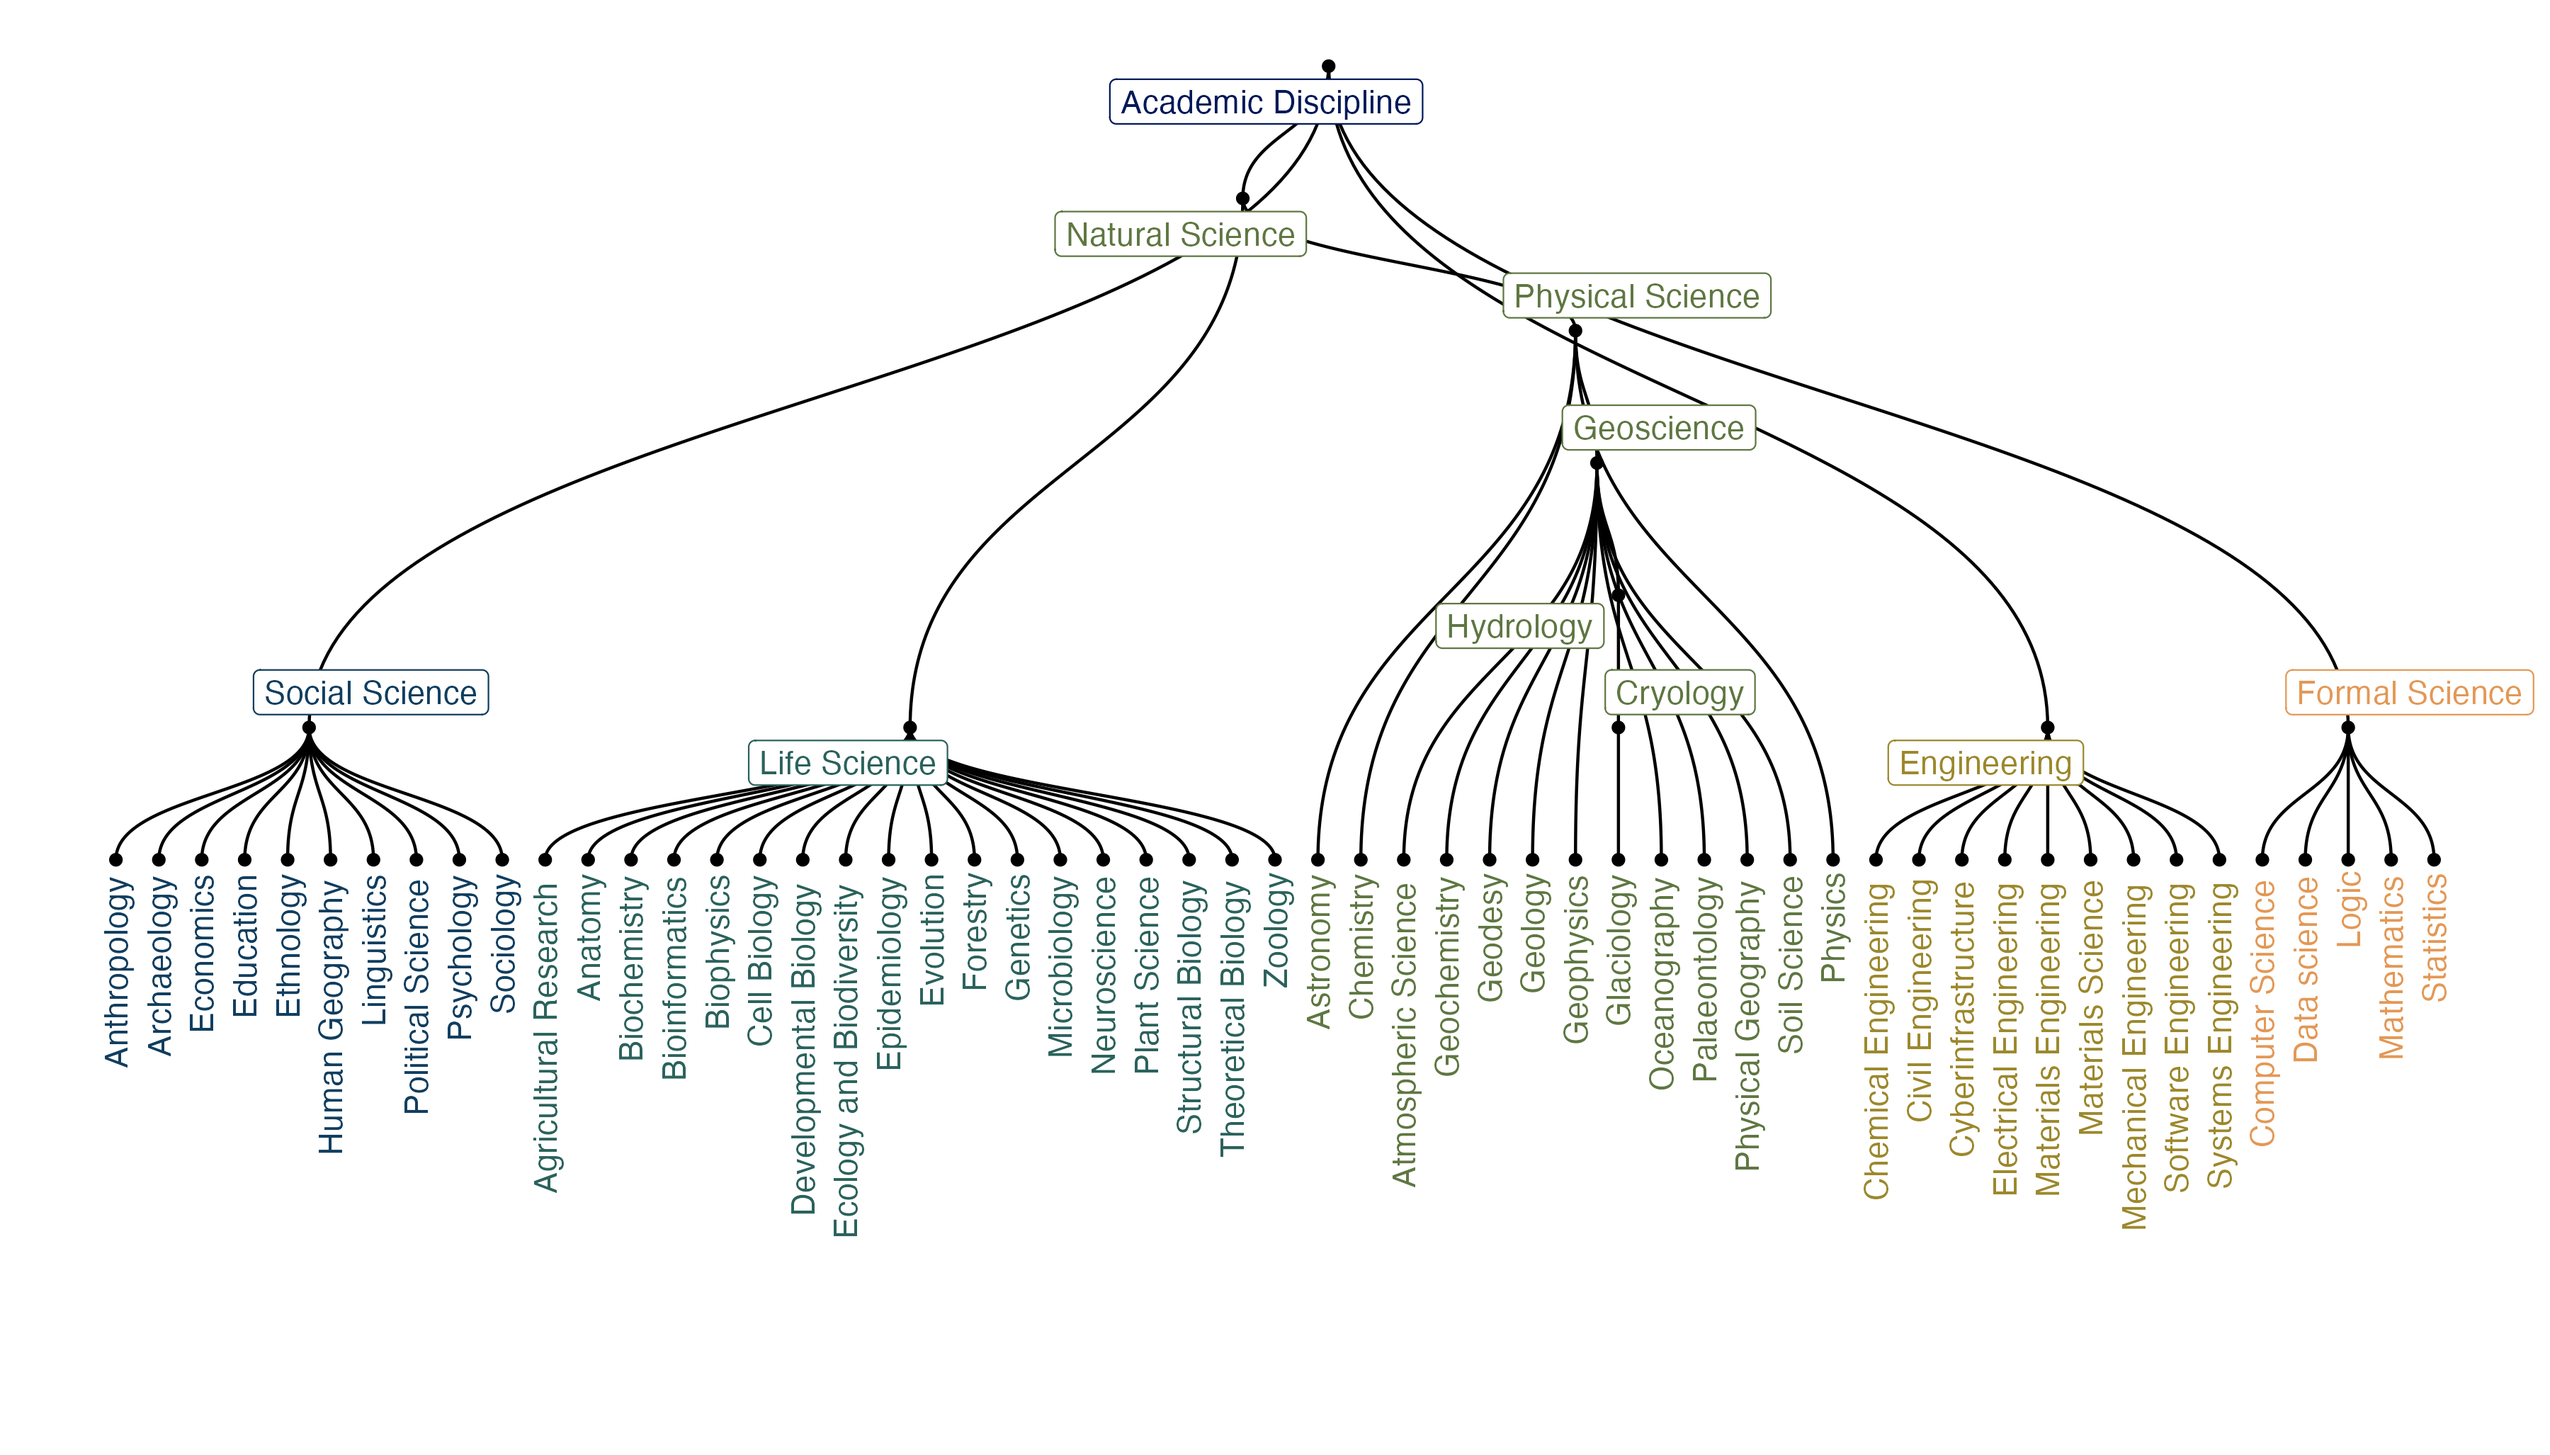
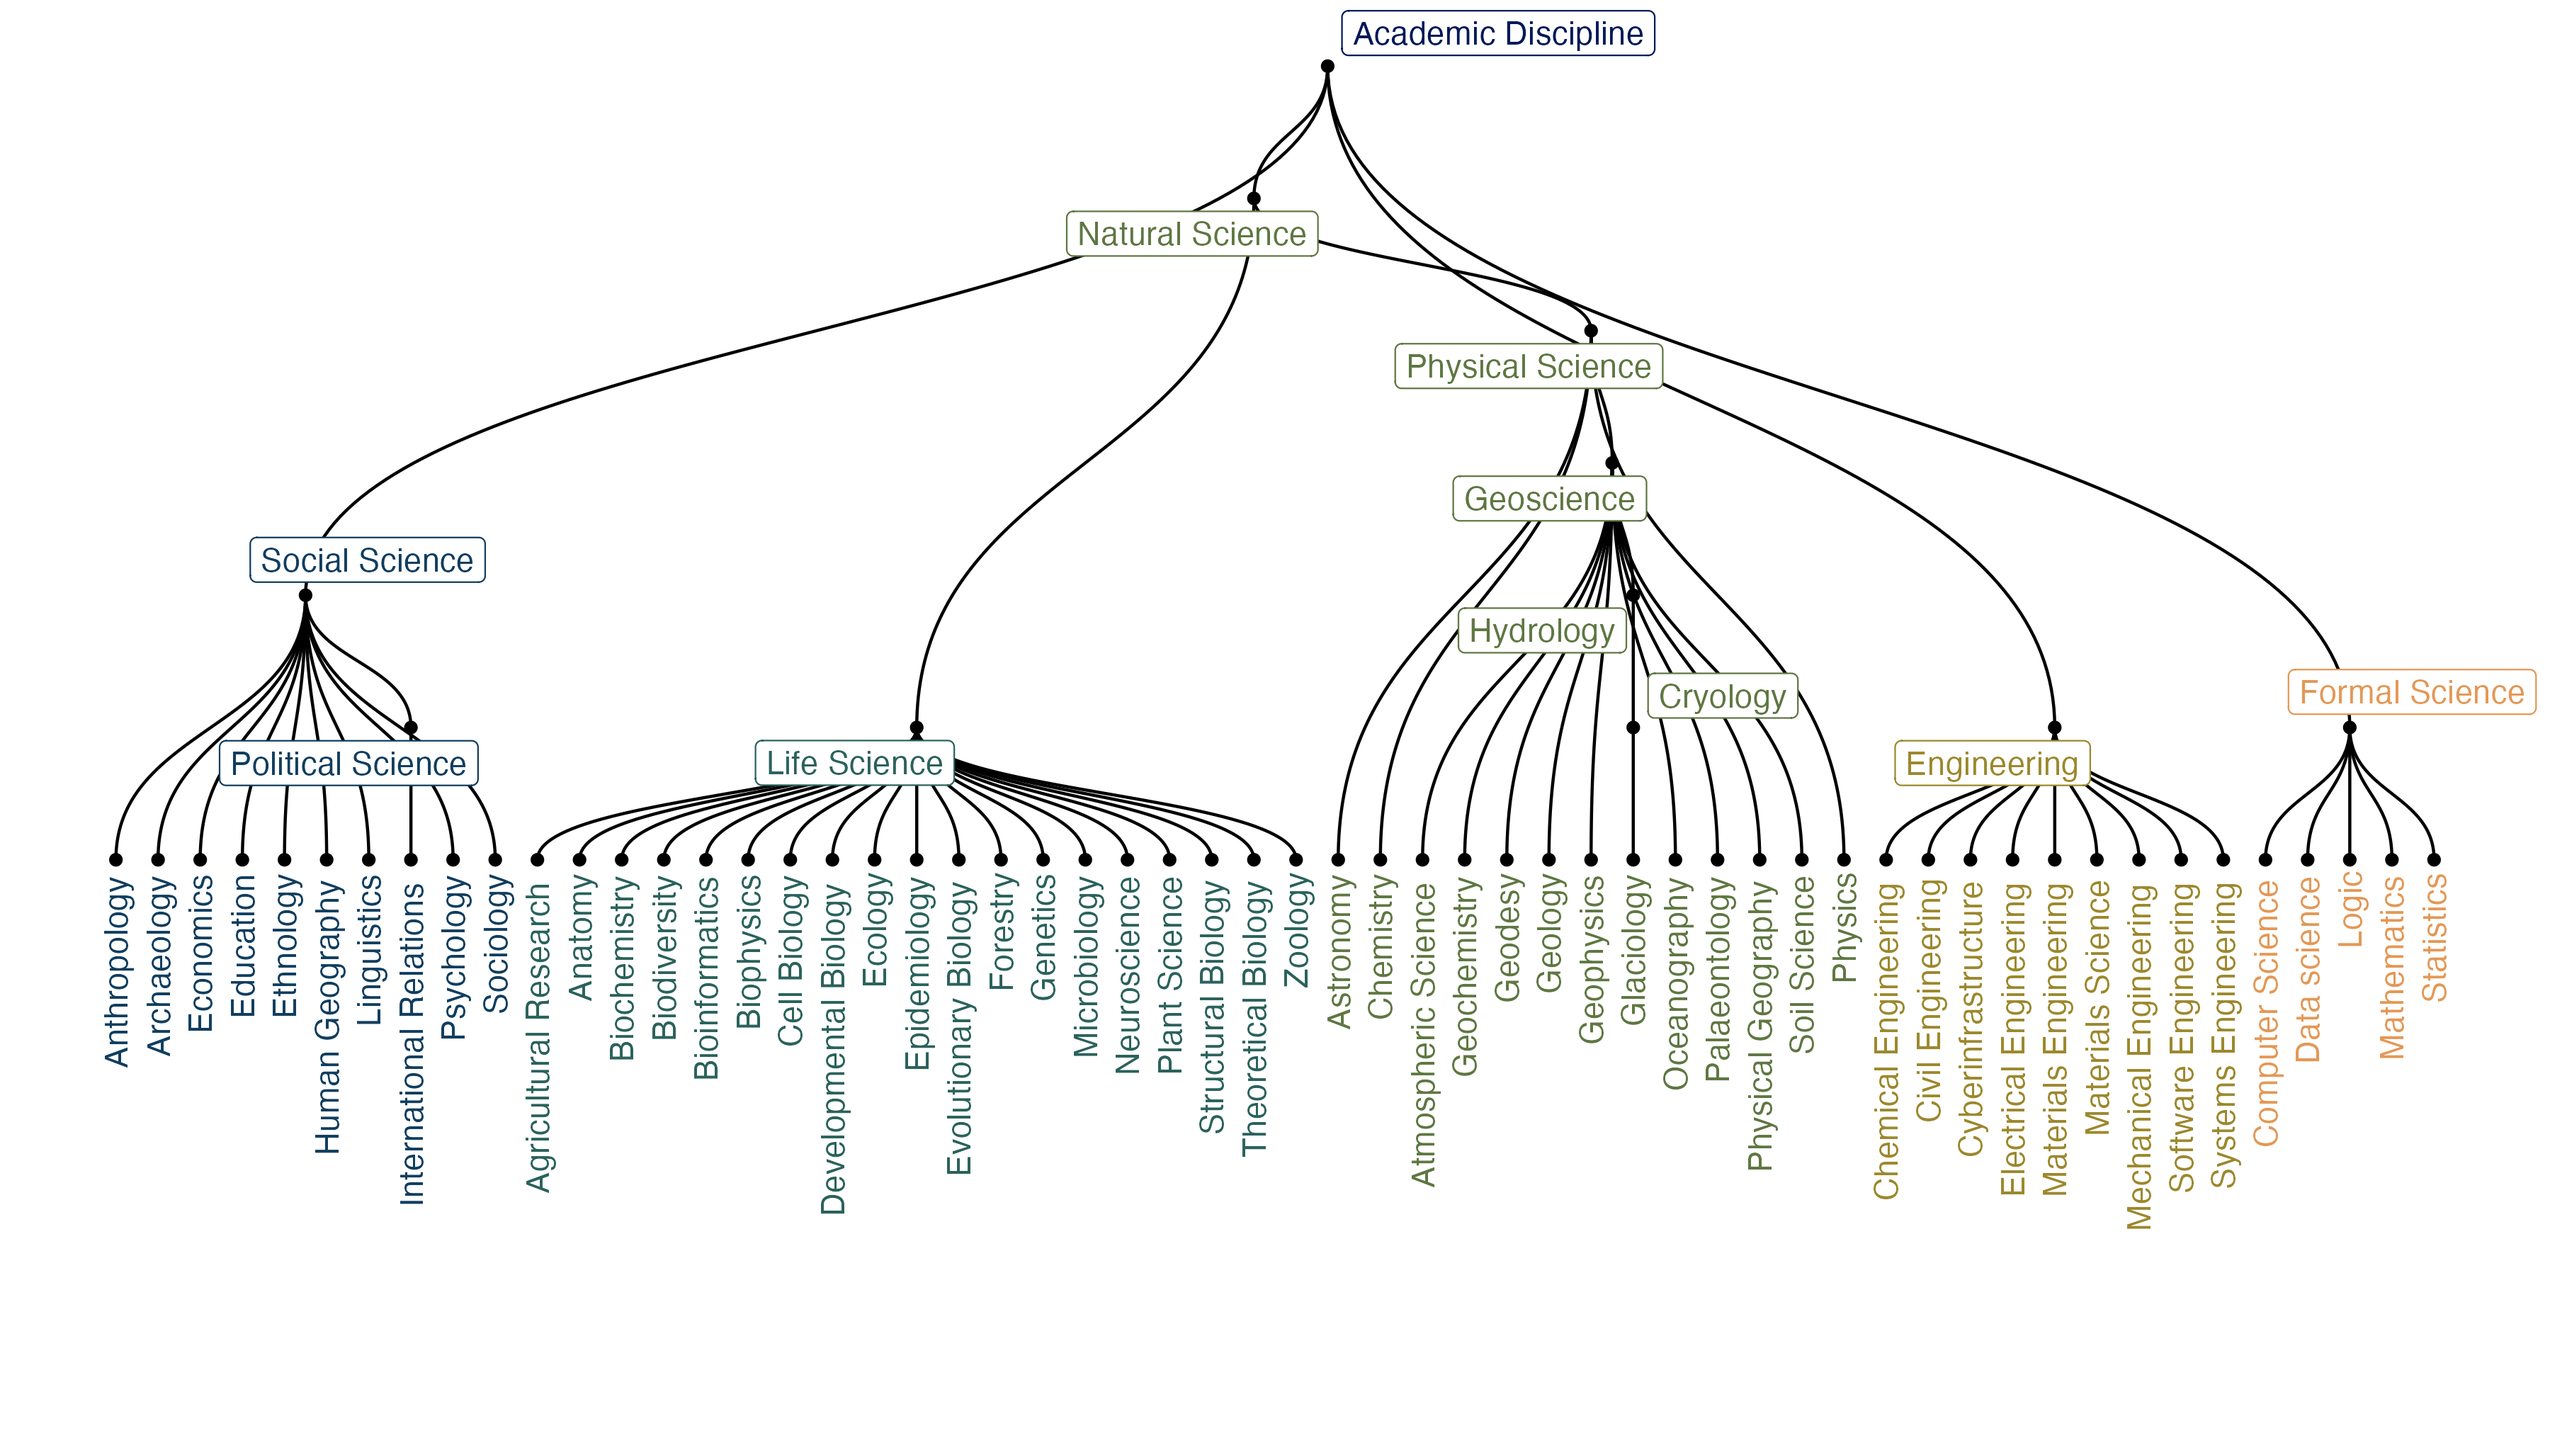
Add INt'l Relations, finish wikidata mapping.

diff --git a/README.md b/README.md
@@ -3,6 +3,7 @@
 A simplified disciplinary taxonomy for classification at the Arctic Data Center.
 
 This taxonomy contains data from the https://re3data.org subject classification, which in turn
-was from data in the academic subject vocabulary created by DFG.
+was from data in the academic subject vocabulary created by DFG. It is crosswalked 
+with the PLOSTHES and Wikidata disciplinary concepts as well.
 
 ![Disciplines](adc-disciplines.png)
